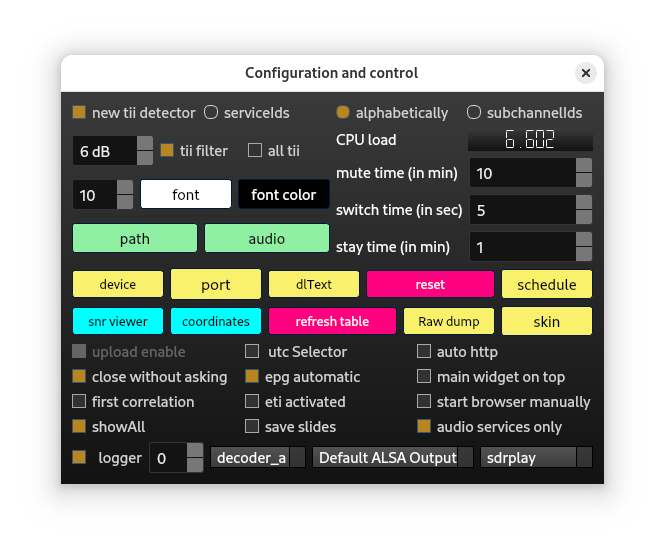
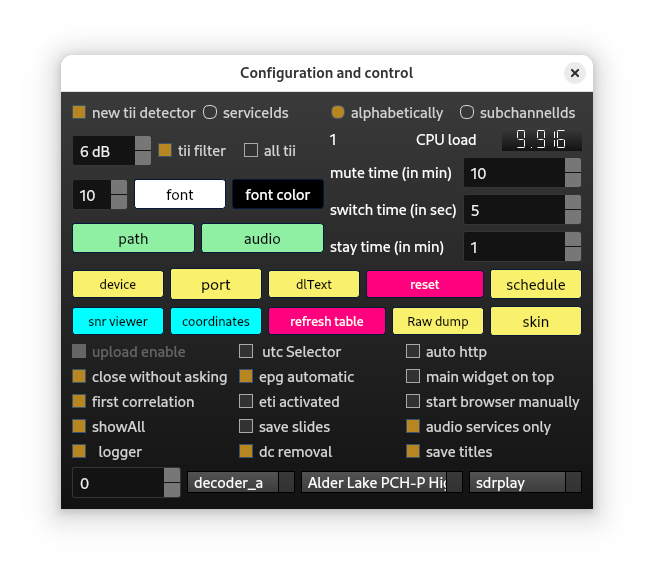
update

Changed region(s): [[0.0917, 0.0926, 0.9174, 0.8947]]

diff --git a/README.md b/README.md
@@ -16,10 +16,8 @@ Qt-DAB  has a single *main* widget that contains essentially all that is needed 
 ![6.9](/res/read_me/qt-dab-front-picture.png?raw=true)
 
 Of course, as for previous versions, for the current version,
-*Qt-DAB-6.9.3*, predefined executables and installers are available.
+*Qt-DAB-6.9.4*, predefined executables and installers are available.
 For Windows  **two** 32 bit installers are available, and for Linux there is an x64 AppImage.
-
-![6.9](/res/read_me/Qt_DAB-6.9.2.png?raw=true)
 
 Table of Contents
 =================================================================
@@ -78,11 +76,13 @@ Widgets and scopes
 
 ![6.9](/res/read_me/Qt_DAB-6.9.1.png)
 
-The *main widget* (see picture) of Qt-DAB (always visible), contains settings for controlling the visibility of other widgets.
-It shows - left half - a list of services (either from the currently selected channel or from the favourites). Selecting a service is just by clicking on the name.
+The *main widget* (see picture) of Qt-DAB (always visible), contains  the settings for controlling the visibility of other widgets.
+The window shows - left half - a list of services (either from the currently selected channel or from the favourites). Selecting a service is just by clicking on the name.
 The right half of the widget shows the dynamic label, and the slides - if transmitted as part of the service - or a series of default slides.
 
   * touching the *ensemble name* (NPO (8001) in the picture) makes the *content table*, i.e. an overview of the content of the ensemble, visible with the possibility of storing the data in a file in ".csv" format. If the content table is visible, touching the name agian will hide it;
+
+![6.9](/res/read_me/content-table.png)
 
  * touching the small icon left on the top of the right half will show (or hide) the *technical widget*, a widget showing all technical details as well as strength indicators and 
 a spectrum of the audio of the selected service;
@@ -91,7 +91,8 @@ a spectrum of the audio of the selected service;
 whether or not a signal should be audible.
  * touching the *copyright symbol* shows (or, if visible, hides) a small widget with acknowledgements for using external libraries;
 
- * touching with the *right hand mouse button* the text on the dynamic label (Grover Washington, Jr - Mister magic) a small menu shows to put the text on the clipboard;
+ * touching with the *right hand mouse button* the text on the dynamic label 
+Toto - Rosanna) a small menu shows to put the text on the clipboard (see also below the configuration widget).
 
  * the button labeled *scan* controls the visibility of a the scan handler widget;
  * the button labeled *http* controls the http handler with which a map (with the transmitters) will be shown;
@@ -217,6 +218,16 @@ buttons with which the configuration of the decoding process can be
 influenced.
 
 At starting up Qt-DAB for the (very) first time, no device is selected yet, and the widget is made visible to allow selection of an input device (the combobox at the bottom line right).
+
+![8.8](/res/read_me/service-and-titles.png)
+
+NEW is - slightly experimental - is the possibility to save titles (parts
+of the dynamic labels) of (mostly) songs that are transmitted.
+This is by interpreting the so-called DL2 data, **Note that not all 
+transmitters send DL2 data**.
+The selector labeled **save titles** controls this.
+
+Furthermore, the indicator, left of the CPU load text, here with value 1, tells how many backends are active simultaneously.
 
 For a detailed description of all selectors, see the manual (or read the tooltips).
 
